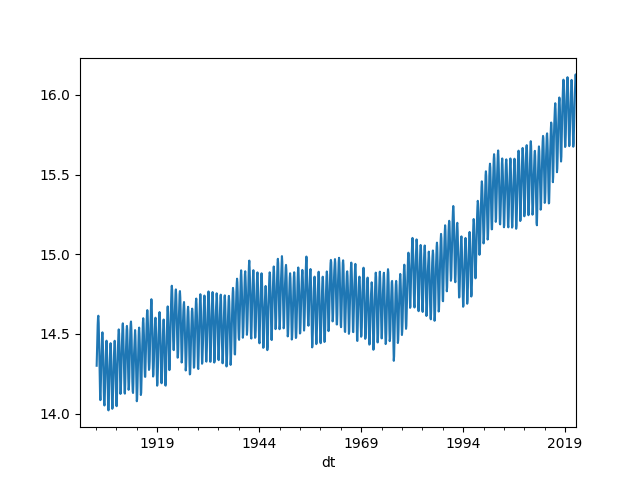
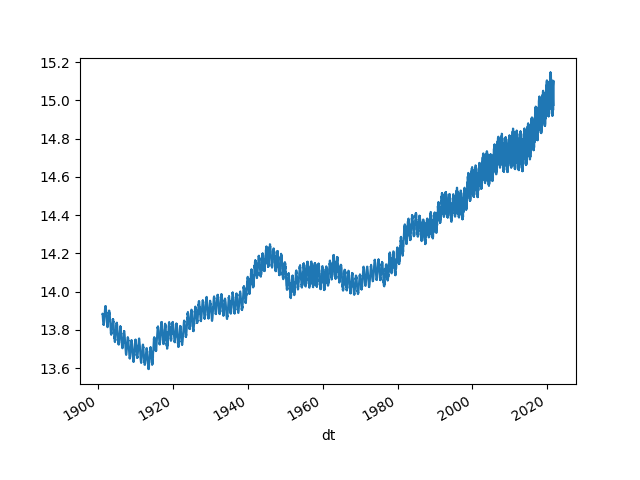
-

diff --git a/en/2015/08/temp-increase.md b/en/2015/08/temp-increase.md
@@ -6,13 +6,41 @@ Berkeley Data
 
 The most basic plot looks at Earth's average temparature. We use data
 from [Berkeley](http://berkeleyearth.org/data/), this data is as raw
-as its gets, looked at the "Monthly Land" under the Gridded section,
-and downloaded the "Equal Area" data file. An average temparature of
-all regions is calculated per time index,
+as its gets, looked at the "Land + Ocean (1850 – Recent)" section
+and used the "Monthly Global Average Temperature (annual summary)"
+data. 
 
 ```python
-import climate
-climate.average_regions()
+import pandas as pd
+
+anoms = [12.23, 12.45, 13.06, 13.98, 14.95, 15.67, 15.96, 15.79, 15.20, 14.26, 13.24, 12.50]
+anoms = np.array(anoms)
+df = pd.read_csv('http://berkeleyearth.lbl.gov/auto/Global/Land_and_Ocean_complete.txt',delim_whitespace=True,comment='%',header=None)
+df = df[[0,1,2]]
+df.columns = ['year','month','anom']
+df['temp'] = df.anom + anoms[df.month.astype(int) - 1]
+df['dt'] = df.apply(lambda x: pd.to_datetime("%d-%02d-01" %(x.year,x.month)), axis=1)
+df1 = df.set_index('dt')
+df1 = df1.rolling(70).mean()
+df1 = df1.dropna()
+df1 = df1[df1.index > '1901-01-01']  
+df1.temp.plot()
+df1['tempyoy'] = (df1.temp - df1.temp.shift(12)) / df1.temp.shift(12) * 100.0
+print (df1.tempyoy.tail(8))
+plt.savefig('berkeley-temp.png')
+```
+
+```text
+dt
+2021-02-01    0.126846
+2021-03-01    0.096448
+2021-04-01    0.057136
+2021-05-01    0.025762
+2021-06-01    0.018964
+2021-07-01    0.011197
+2021-08-01   -0.019109
+2021-09-01   -0.054821
+Name: tempyoy, dtype: float64
 ```
 
 ![](berkeley-temp.png)
